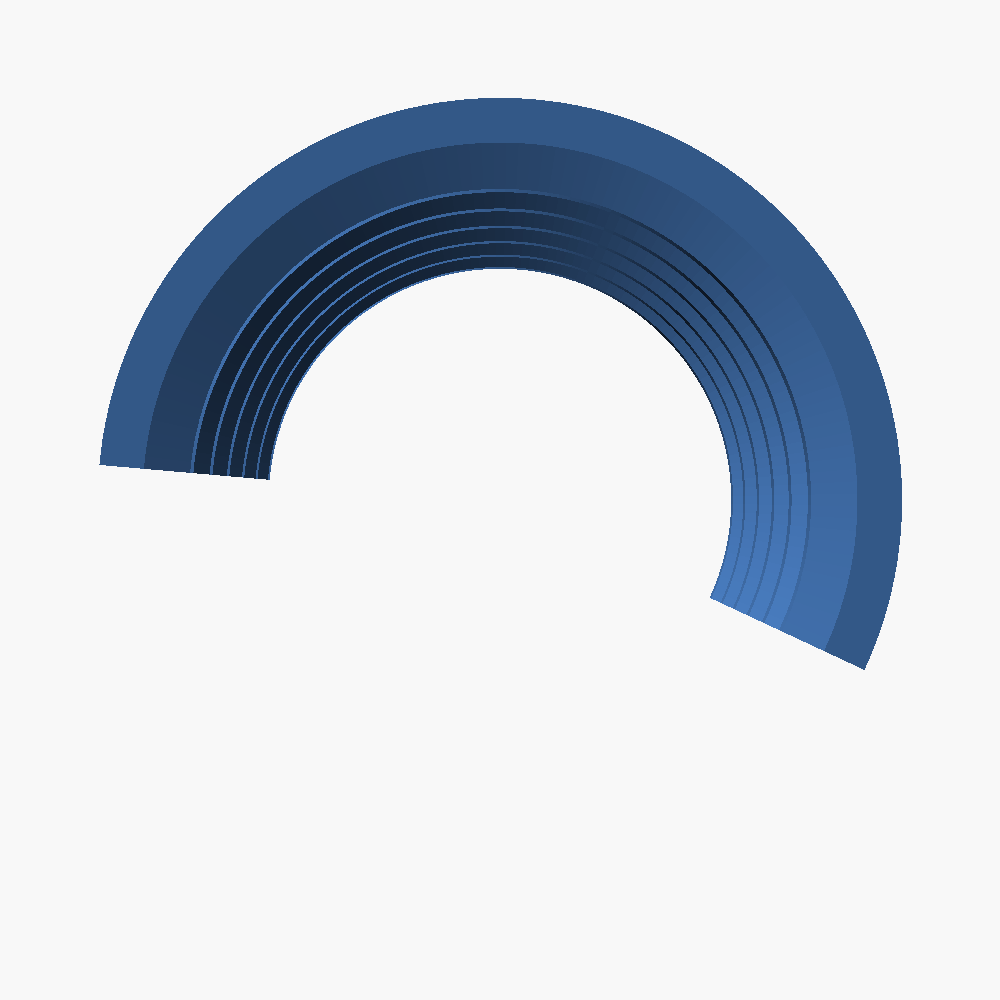
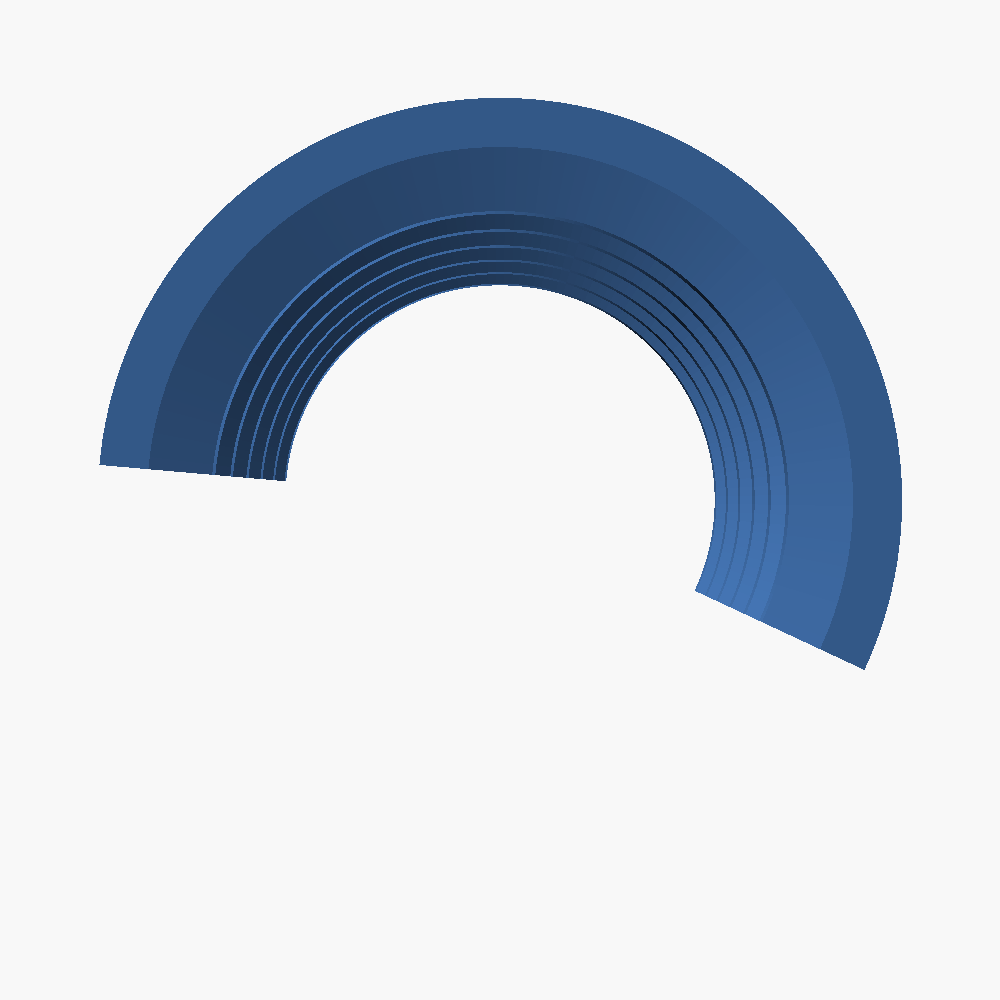
Tune defaults to measured pipe: crest 15.8, valley 13 (corr_depth 1.4)

diff --git a/README.md b/README.md
@@ -12,9 +12,10 @@ geometry updates automatically. All dimensions are in **millimetres**.
 ## Rendering example
 
 All images below are rendered from the **default parameter values** in the
-[parameter table](#parameters) further down — a 16 mm conduit with 18 mm wall hole, 200°
-coverage, and a corrugation profile measured off a real pipe (pitch 3.79 mm: 1.2 mm valley
-+ 2.59 mm crest). Only the camera angle differs between the 3D views.
+[parameter table](#parameters) further down — a "16 mm" conduit (crest Ø 15.8, valley Ø 13)
+with 18 mm wall hole, 200° coverage, and a corrugation profile measured off a real pipe
+(pitch 3.79 mm: 1.2 mm valley + 2.59 mm crest, 1.4 mm grip depth). Only the camera angle
+differs between the 3D views.
 
 ![Pipe clamp render](images/pipe_clamp.png)
 
@@ -22,9 +23,9 @@ This produces an arc covering ~200° of the pipe (open ~160° so it snaps on), w
 circumferential grip teeth and a flange lip at one end. Computed result:
 
 ```
-Available material (radial): 1 mm
+Available material (radial): 1.1 mm
 Clamp body outer Ø: 18 mm     (= bore_diameter)
-Flange Ø: 22 mm               (= pipe_diameter + 2·flange_overhang)
+Flange Ø: 21.8 mm             (= pipe_diameter + 2·flange_overhang)
 Length: 22.74 mm              (= corr_count · pitch = 6 · 3.79)
 ```
 
@@ -50,9 +51,9 @@ All renders above (the 3D views and the dimensioned drawing) are regenerated by
 
 | Parameter | Default | Meaning |
 |---|---|---|
-| `pipe_diameter` | `16` | Outer (crest) diameter of the corrugated conduit (mm) |
+| `pipe_diameter` | `15.8` | Outer (crest) diameter of the corrugated conduit (mm) |
 | `bore_diameter` | `18` | Hole the clamp passes through = clamp body outer Ø (mm) |
-| `corr_depth` | `1` | How far the grip teeth bite into the conduit grooves (mm) |
+| `corr_depth` | `1.4` | How far the grip teeth bite into the conduit grooves (mm) |
 | `corr_width` | `1.2` | Width of each grip tooth along the pipe axis (mm) |
 | `groove_width` | `2.59` | Width of each recess (over a crest) along the axis (mm) |
 | `corr_chamfer` | `0.3` | Bevel on the tooth/recess edges (mm); `0` = sharp square teeth |
@@ -70,15 +71,16 @@ You give the two diameters and the rest is **derived**:
   diameter** (e.g. 18 mm).
 - **Available material** (the smooth backing wall over the crests) =
   `(bore_diameter − pipe_diameter) / 2` (here 1 mm radial).
-- The grip teeth bite an additional `corr_depth` into the conduit's grooves, so the part is
-  thicker at the teeth and thinnest (= available material) at the recesses.
+- The grip teeth bite `corr_depth` into the conduit's grooves (down to the valley), so the
+  part is thicker at the teeth and thinnest (= available material) at the recesses.
 - Real conduit crests and valleys are rounded/U-shaped rather than square. `corr_chamfer`
   bevels the tooth and recess edges to match (set it to `0` for sharp square teeth). It must
   be ≤ half the smaller of `corr_width`/`groove_width` (asserted in the model).
 - Flange Ø = `pipe_diameter + 2·flange_overhang` (here 22 mm) — catches on the wall hole.
 - Length = `corr_count · (corr_width + groove_width)` (always whole corrugation periods).
-  The defaults were measured off a real 16 mm conduit: 6 corrugations spanned 22.74 mm
-  (pitch 3.79 mm = 1.2 mm valley + 2.59 mm crest).
+  The defaults were measured off a real "16 mm" conduit: crest Ø 15.8, valley Ø 13.0
+  (→ `corr_depth` 1.4), 6 corrugations spanned 22.74 mm (pitch 3.79 mm = 1.2 valley + 2.59
+  crest).
 
 `bore_diameter` must be larger than `pipe_diameter` (asserted in the model). A coverage
 above 180° gives a snap-fit grip onto the pipe.
